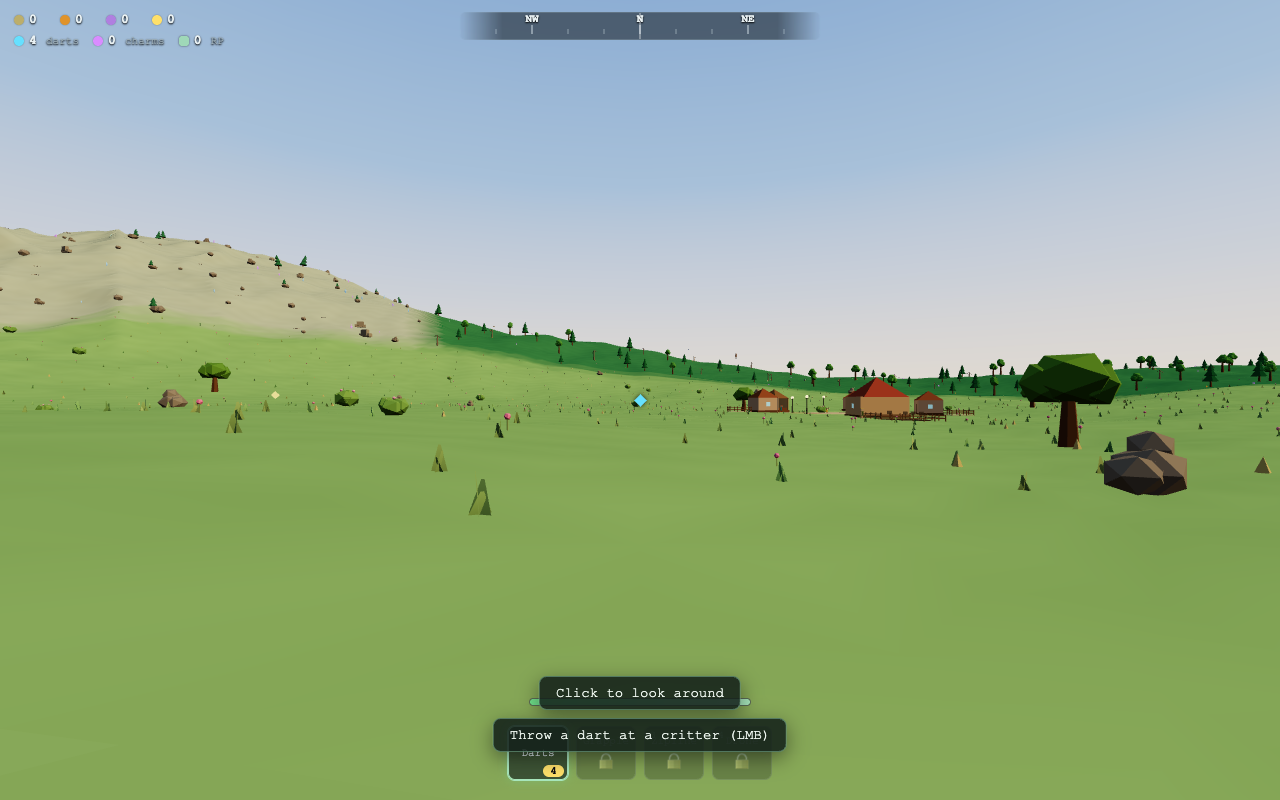
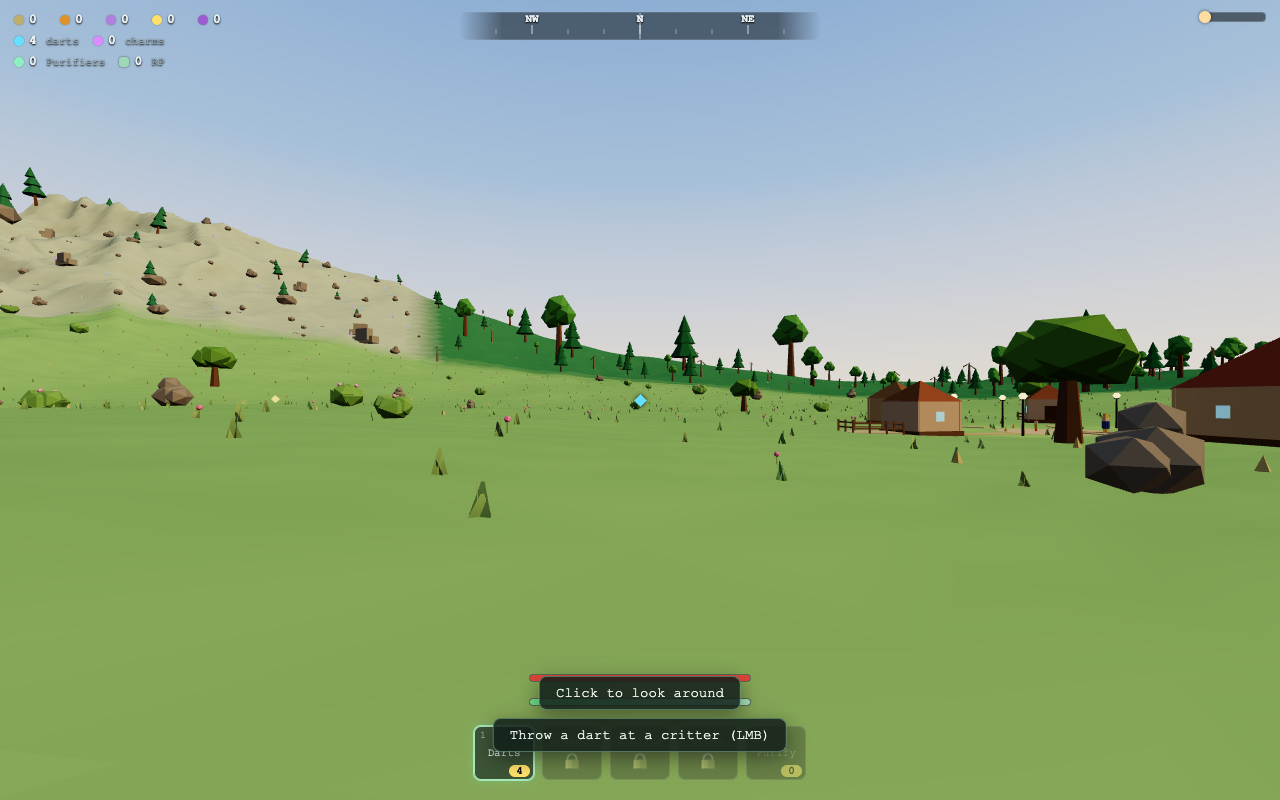
test(e2e): day/night, castle, goblin, purify-arc checks + screenshot refresh
Adds four Playwright checks covering the whole Cursed Castle feature:
day/night luminance swing (with a new meanLuminance helper), the castle
site + a gargoyle via ?debug=castle, night goblins landing a hit on the
player (HP drop), and the crystal purify arc (castlePurified + elfCount
surviving a reload). All existing debug.ts hooks (hp, goblinCount,
elfCount, castlePurified, spawnGoblin, setElves, purifyCrystal) were
already in place from earlier tasks.

Re-ran the full suite, which refreshes every numbered screenshot against
the post-rescale world (not just the biome tour). Records a constants-only
playtest-tuning sanity pass plus the known deferred minors in FOLLOWUPS.md.

diff --git a/FOLLOWUPS.md b/FOLLOWUPS.md
@@ -5,6 +5,57 @@ backlog below has been cleared on `chore/followups`; what remains is a short
 "deliberately kept" list of items intentionally left as-is (with reasons), plus
 a trail of what was resolved.
 
+## Cursed Castle fast-follows
+
+Deferred minors noted while finishing the Cursed Castle branch (Task 15's
+playtest-tuning sweep — a constants sanity review, not an interactive
+playtest). None block ship; listed here so they aren't lost.
+
+- **HUD 'Purifiers' label casing** (`ui/hud.ts:212`): reads Title-case
+  `Purifiers` next to lowercase siblings `darts`/`charms` (line 208/210) —
+  cosmetic inconsistency in the hotbar/HUD counter labels.
+- **HP/stamina bars flash visible ~2s at boot** (`ui/hud.ts`): both bars are
+  briefly visible before their steady-state fade-in settles; not a functional
+  bug, just a visible pop worth smoothing.
+- **Elf/goblin wander ignores castle wall colliders** (`castle/elves.ts`,
+  `castle/goblins.ts`): both FSMs steer by pure home/target math and never
+  consult `castleObstacles()`/`castleGrappleColliders()`, so a wandering elf
+  or a chasing goblin can visually clip through a curtain wall or the keep.
+- **No cap on elf count growth** (`castle/elves.ts` `ElfSystem.addAt` /
+  `setCount`): every goblin purified (per-goblin dart hit, or the crystal's
+  full-castle burst) adds an elf with no upper bound — over many nights this
+  could in principle grow past what the spiral home layout comfortably seats.
+- **Purify-flash CSS duration hardcoded** (`ui/hud.ts:1004`, `0.5s`) **vs
+  `CRYSTAL.flashS`** (`core/constants.ts:994`, `0.5`): same value today, but
+  the two aren't wired together — retuning `CRYSTAL.flashS` alone would
+  silently desync the flash's fade timing from the constant that documents it.
+- **Pushout clamp (1.5 m) feel unplaytested** (`core/constants.ts:165`,
+  `COLLISION.maxPushoutPerStep`): reused as-is from the pre-castle collision
+  system for the new castle wall/keep/tower obstacles; the per-step pushout
+  cap hasn't been playtested specifically against the castle's tighter
+  corridors (gate arch, keep entrance).
+- **Gargoyle wing "unfurl on flee" animation punch-up** (`critters/species.ts`
+  / `critters/models.ts` gargoyle entry): the flee reaction reuses the generic
+  fly-flee animation; a perch-specific wing-unfurl flourish on the
+  idle→flee transition was suggested but not built — pure polish.
+- **`debug.ts` `grant()` doc comment omits `purifiers`** (`debug.ts:174-178`):
+  the JSDoc lists grantable numeric fields as "fiber, resin, shard, spark, rp,
+  darts" but `purifiers` (and `charms`) also grant through the same path —
+  comment just hasn't been updated to match.
+
+Constants sanity-checked (numbers hold up, no change made):
+- `GOBLIN.chaseSpeed` (8.075) vs `MOVE.sprint` (9.5): a sustained sprint pulls
+  away at +1.425 m/s (~15%); at `sprintDrain` 10/s a full stamina bar buys 10s
+  of sprint — ~14 m of separation, comfortably past `GOBLIN.giveUpR` (40 m)
+  combined with an existing gap. Reads as "escapable but scary," as intended.
+- `DAYLIGHT.duskS` = 60s — matches the brief's target.
+- Purifying Dart cost (`mushroom: 3` per batch of 5) against mushroom supply
+  (`CASTLE.approachMushrooms: 10` dedicated clusters + world scatter capped at
+  8/chunk, `SCATTER.respawnS` 180s regrow): comfortably affordable, not a
+  bottleneck.
+- Giant-tree frequency (`PROPS.treeTiers`, cumulative `p: 1.0` after `0.95`) =
+  5% — matches the brief's target.
+
 ## Deliberately kept
 
 - **Prismhorse tri budget / LOD** (`critters/models.ts`): the 16-legged crystal
